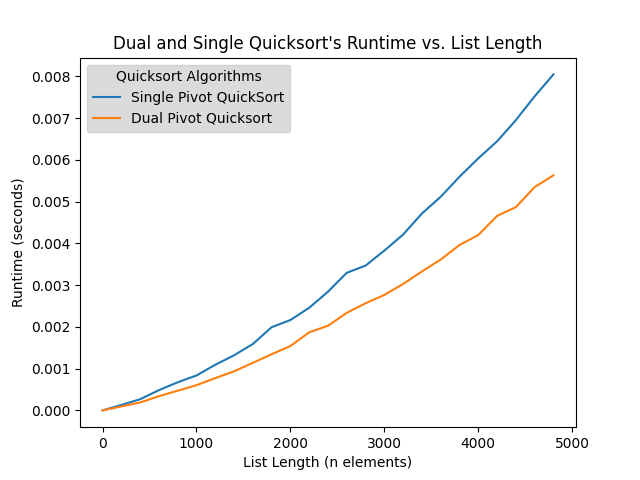
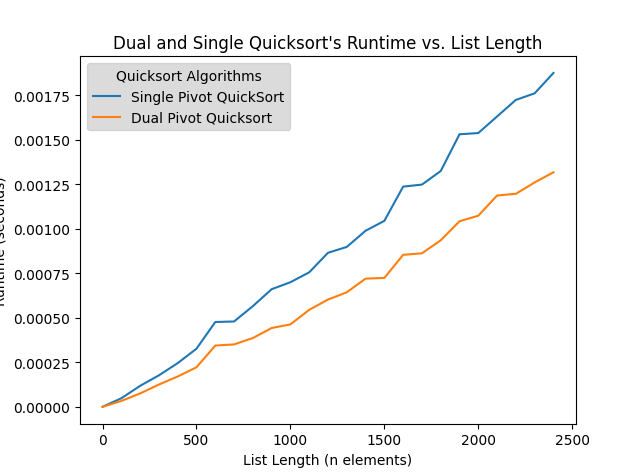
Fix list factors and figures

diff --git a/Lab 1/Experiment 8/Experiment 8.py b/Lab 1/Experiment 8/Experiment 8.py
@@ -31,7 +31,7 @@ def conduct_AverageRuns(averageRunCount, sortingAlgFunc, target_List):
 # Paramaters: test_runs(number of actual test runs), average_runs (number of average runs - done during each actual test run) and increaseList_factor(factor used to increase the list size)
 def test_allSorts(test_runs, average_runs, increaseList_factor):
     list_max = 100
-    list_len = 0    #TODO DISCUSS IF THIS NEEDS TO BE REMOVED
+    list_len = 0
     # declare the default max and len of list: 0
 
     # lists to store the average runtimes computed for each sorting alg as well as the increasing lengths of the list
@@ -55,7 +55,7 @@ def test_allSorts(test_runs, average_runs, increaseList_factor):
 
         # increases the list's length by a corresponding factor
         list_len += increaseList_factor
-        #list_max += 10     #TODO DISCUSS IF THIS NEEDS TO BE REMOVED
+        list_max += increaseList_factor
 
 
     # plots the runtimes of the 3 sorting algorithms with the following legends and axis titles
@@ -72,9 +72,10 @@ def test_allSorts(test_runs, average_runs, increaseList_factor):
     return Insertion_times, QuickSort_times, MergeSort_times
 
 
-# calls the function to commence the test and plot the curve with the following parameters: 10 test runs, 30 average runs (for each test run) with an increasing list factor of 1 (focusing mainly on insertion vs quick sort in this case)
-#test_allSorts(12, 30, 1)
+# calls the function to commence the test and plot the curve with the following parameters: 13 test runs, 30 average runs (for each test run) with an increasing list factor of 1 (focusing mainly on insertion vs quick sort in this case)
+test_allSorts(13, 30, 1)
 
 
-# calls the function to commence the test and plot the curve with the following parameters: 10 test runs, 30 average runs (for each test run) with an increasing list factor of 1 (insertion vs quick in this case)
-test_allSorts(15, 30, 5)
+# calls the function to commence the test and plot the curve with the following parameters: 15 test runs, 30 average runs (for each test run) with an increasing list factor of 5 (insertion vs quick in this case)
+test_allSorts(100, 30, 1)
+# TODO CONFIRM BETWEEN ORG AND ALT PICS FOR SECOND DEMO

diff --git a/Lab 1/Experiment 6/Experiment 6.py b/Lab 1/Experiment 6/Experiment 6.py
@@ -61,7 +61,6 @@ def DualvsSingle_QuickSort(test_runs, average_runs, increaseList_factor):
     list_max = 100
     list_len = 0
     # declare the default max and len of list: 0
-    # TODO maybe increase list max as well
 
     # lists to store the average runtimes computed for each sorting alg as well as the increasing lengths of the list
     SingleQuick_times = []
@@ -81,6 +80,7 @@ def DualvsSingle_QuickSort(test_runs, average_runs, increaseList_factor):
 
         # increases the list's length by a corresponding factor
         list_len += increaseList_factor
+        list_max += increaseList_factor
 
 
     # plots the runtimes of the 3 sorting algorithms with the following legends and axis titles
@@ -109,7 +109,7 @@ assert(quicksort(L4) == dual_quicksort(L4))
 
 
 # calls the function to commence the test and plot the curve with the following parameters: 15 test runs, 30 average runs (for each test run) with an increasing list factor of 100
-DualvsSingle_QuickSort(25, 30, 200)
+DualvsSingle_QuickSort(25, 30, 100)
 
 
 

diff --git a/Lab 1/Experiment 1/Experiment 1.py b/Lab 1/Experiment 1/Experiment 1.py
@@ -51,6 +51,7 @@ def test_allSorts(test_runs, average_runs, increaseList_factor):
 
         # increases the list's length by a corresponding factor
         list_len += increaseList_factor
+        list_max += increaseList_factor
 
 
     # plots the runtimes of the 3 sorting algorithms with the following legends and axis titles
